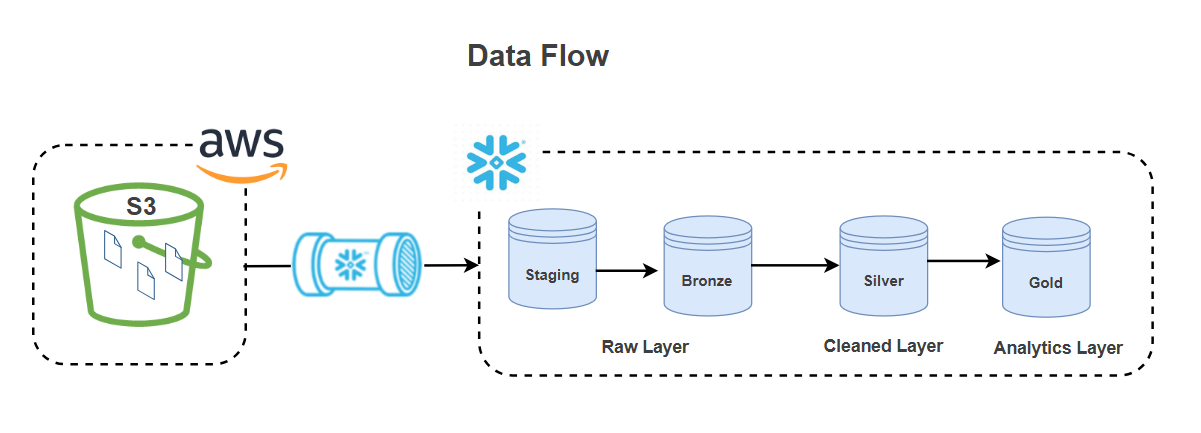
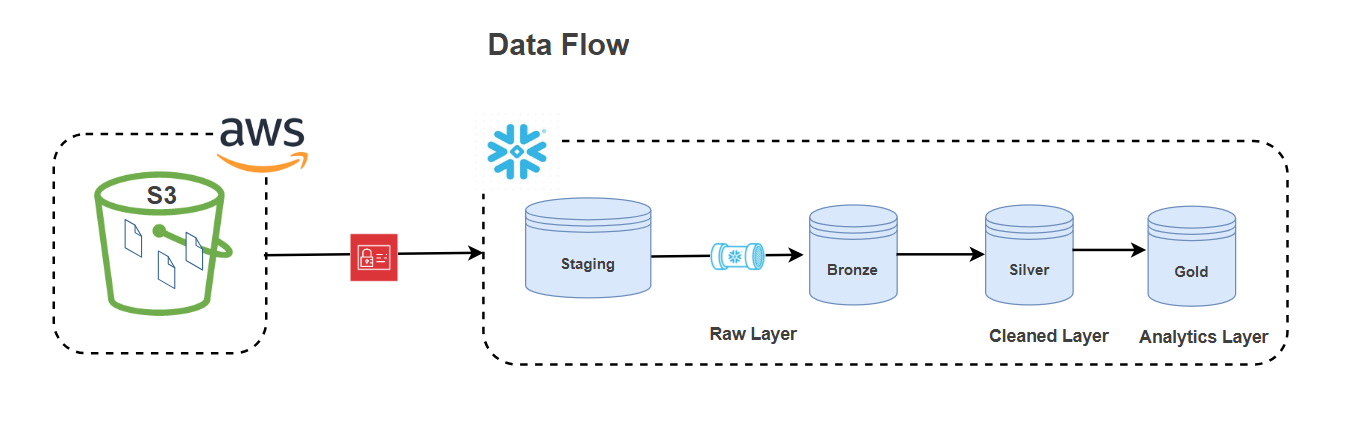
Minor fixes for readme and diagrams

Changed region(s): [[0.0308, 0.2702, 0.955, 0.8707], [0.3389, 0.06, 0.5237, 0.1501], [0.1848, 0.7506, 0.2157, 0.7806]]

diff --git a/README.md b/README.md
@@ -561,7 +561,7 @@ This project demonstrates:
   | Database | Schema | Usage |
   | --- |--- |--- |
   | DB_AIRBNB_DEV | BRONZE | Raw Layer |
-  | DB_AIRBNB_DEV | SILVER | CLeaned Layer |
+  | DB_AIRBNB_DEV | SILVER | Cleaned Layer |
   | DB_AIRBNB_DEV | GOLD | Analytics Ready Layer |
 
 
